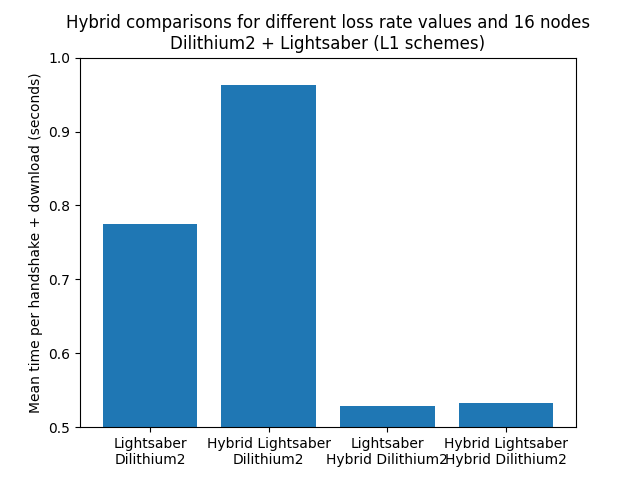
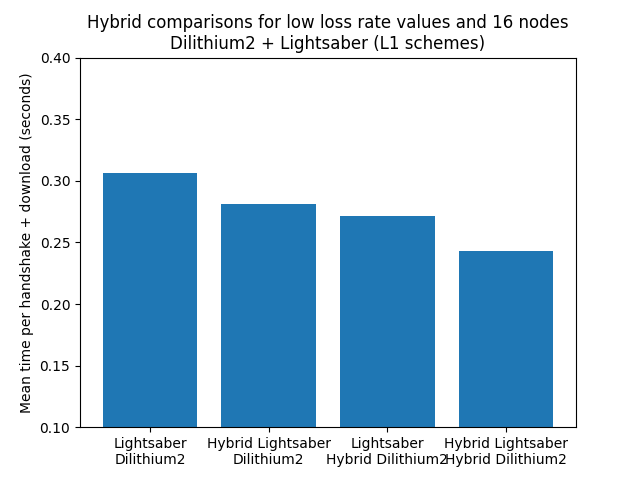
22/12 - Exploitation

diff --git a/computing_results.py b/computing_results.py
@@ -30,6 +30,49 @@ Format :
 "bytes_read_per_conn": "303"}
 """
 
+ciphertext_or_signature_sizes = {  # In bytes
+    "kyber512": 736,
+    "kyber768": 1088,
+    "kyber1024": 1568,
+    "ntru1": 699,
+    "ntru3": 930,
+    "ntru5": 1230,
+    "lightsaber": 736,
+    "saber": 1088,
+    "firesaber": 1472,
+    "dil2": 2044,
+    "dil3": 2701,
+    "dil4": 3366,
+    "falcon512": 690,
+    "falcon1024": 1330,
+    "picnic3l1": 14612,
+    "picnic3l3": 35028,
+    "picnic3l5": 61028,
+    "rainbowIa": 64,
+    "rainbowVc": 204
+}
+
+public_key_sizes = {  # In bytes
+    "kyber512": 800,
+    "kyber768": 1184,
+    "kyber1024": 1568,
+    "ntru1": 699,
+    "ntru3": 930,
+    "ntru5": 1230,
+    "lightsaber": 672,
+    "saber": 992,
+    "firesaber": 1312,
+    "dil2": 1184,
+    "dil3": 1472,
+    "dil4": 1760,
+    "falcon512": 897,
+    "falcon1024": 1793,
+    "picnic3l1": 35,
+    "picnic3l3": 49,
+    "picnic3l5": 65,
+    "rainbowIa": 148992,
+    "rainbowVc": 1705536
+}
 
 # Functions
 
@@ -87,6 +130,15 @@ def get_rtt_min_loss(data, nodes):
     return get_rtt(res), min_loss
 
 
+def get_rtt_max_loss(data, nodes):
+    max_loss = 0
+    res = {}
+    for exp in data[nodes]:
+        if exp["loss"] > max_loss:
+            res = exp
+            max_loss = exp["loss"]
+    return get_rtt(res), max_loss
+
 # Loss variations for L1
 
 
@@ -102,9 +154,9 @@ dil2_lightsaber = get_experiments(make_filename("dil2", "lightsaber", new=True))
 dil3_saber = get_experiments(make_filename("dil3", "saber", new=True))
 dil4_firesaber = get_experiments(make_filename("dil4", "firesaber", new=True))
 
-loss_graph("8", dil2_lightsaber, "Dilithium2 + Lightsaber (L1)")
-loss_graph("8", dil3_saber, "Dilithium3 + Saber (L3)")
-loss_graph("8", dil4_firesaber, "Dilithium4 + Firesaber (L5)")
+loss_graph("8", dil2_lightsaber, "Dilithium2 + Lightsaber (L1xL1)")
+loss_graph("8", dil3_saber, "Dilithium3 + Saber (L2xL3)")
+loss_graph("8", dil4_firesaber, "Dilithium4 + Firesaber (L3xL5)")
 
 plt.xlabel("Packet Loss percentage (%)")
 plt.ylabel("Mean time per handshake + download (seconds)")
@@ -186,16 +238,16 @@ def hybrid_graph(data_qq, data_hq, data_qh, data_hh, nodes, title, filename, kex
         f = get_rtt_min_loss
 
     x.append(kex + "\n" + sig)
-    y.append(f(data_qq, nodes))
+    y.append(f(data_qq, nodes)[0])
 
     x.append("Hybrid " + kex + "\n" + sig)
-    y.append(f(data_hq, nodes))
+    y.append(f(data_hq, nodes)[0])
 
     x.append(kex + "\n" + "Hybrid " + sig)
-    y.append(f(data_qh, nodes))
+    y.append(f(data_qh, nodes)[0])
 
     x.append("Hybrid " + kex + "\n" + "Hybrid " + sig)
-    y.append(f(data_hh, nodes))
+    y.append(f(data_hh, nodes)[0])
 
     plt.bar(x, y)
     plt.ylabel("Mean time per handshake + download (seconds)")
@@ -207,8 +259,8 @@ def hybrid_graph(data_qq, data_hq, data_qh, data_hh, nodes, title, filename, kex
 
 
 hybrid_graph(dil2_lightsaber, Hdil2_lightsaber, dil2_Hlightsaber, Hdil2_Hlightsaber, "16",
-             "Hybrid comparisons for different loss rate values and 16 nodes\nDilithium2 + Lightsaber (L1 schemes)",
-             "figures/HYBRID_dil2_lightsaber", "Lightsaber", "Dilithium2", all_same=True, bot=0.5, top=1)
+             "Hybrid comparisons for low loss rate values and 16 nodes\nDilithium2 + Lightsaber (L1 schemes)",
+             "figures/HYBRID_dil2_lightsaber", "Lightsaber", "Dilithium2", all_same=False, bot=0.1, top=0.4)
 
 rainIa_kyber512 = get_experiments(make_filename("rainbowIa", "kyber512", new=True))
 HrainIa_kyber512 = get_experiments(make_filename("rainbowIa", "kyber512", new=True, h_sig=True))
@@ -216,8 +268,8 @@ rainIa_Hkyber512 = get_experiments(make_filename("rainbowIa", "kyber512", new=Tr
 HrainIa_Hkyber512 = get_experiments(make_filename("rainbowIa", "kyber512", new=True, h_sig=True, h_kex=True))
 
 hybrid_graph(rainIa_kyber512, HrainIa_kyber512, rainIa_Hkyber512, HrainIa_Hkyber512, "8",
-             "Hybrid comparisons for different loss rate values and 8 nodes\nRainbowIa + Kyber512 (L1 schemes)",
-             "figures/HYBRID_rainbowIa_kyber512", "Kyber512", "RainbowIa", all_same=True, bot=1.1, top=1.5)
+             "Hybrid comparisons for low loss rate values and 8 nodes\nRainbowIa + Kyber512 (L1 schemes)",
+             "figures/HYBRID_rainbowIa_kyber512", "Kyber512", "RainbowIa", all_same=False, bot=1.1, top=1.5)
 
 rainVc_kyber1024 = get_experiments(make_filename("rainbowVc", "kyber1024", new=True))
 HrainVc_kyber1024 = get_experiments(make_filename("rainbowVc", "kyber1024", new=True, h_sig=True))
@@ -225,8 +277,8 @@ rainVc_Hkyber1024 = get_experiments(make_filename("rainbowVc", "kyber1024", new=
 HrainVc_Hkyber1024 = get_experiments(make_filename("rainbowVc", "kyber1024", new=True, h_sig=True, h_kex=True))
 
 hybrid_graph(rainVc_kyber1024, HrainVc_kyber1024, rainVc_Hkyber1024, HrainVc_Hkyber1024, "8",
-             "Hybrid comparisons for different loss rate values and 8 nodes\nRainbowVc + Kyber1024 (L1 schemes)",
-             "figures/HYBRID_rainbowVc_kyber1024", "Kyber1024", "RainbowVc", all_same=True, bot=13, top=17)
+             "Hybrid comparisons for low loss rate values and 8 nodes\nRainbowVc + Kyber1024 (L1 schemes)",
+             "figures/HYBRID_rainbowVc_kyber1024", "Kyber1024", "RainbowVc", all_same=False, bot=10, top=16)
 
 # Picnic Comparisons
 
@@ -252,4 +304,86 @@ plt.legend()
 plt.savefig("figures/LOSS_Picnic_all")
 plt.ylim(top=2)
 plt.savefig("figures/LOSS_Picnic_detail")
+plt.show()
+
+# LOW LOSS, CIPHERTEXT SIZE
+
+old_dil2_saber = get_experiments(make_filename("dil2", "saber", new=False))
+old_dil2_firesaber = get_experiments(make_filename("dil2", "firesaber", new=False))
+old_dil2_kyber512 = get_experiments(make_filename("dil2", "kyber512", new=False))
+old_dil2_ntru1 = get_experiments(make_filename("dil2", "ntru1", new=False))
+
+x, y = [], []
+for exp in [(old_dil2_lightsaber, "lightsaber"), (old_dil2_saber, "saber"), (old_dil2_firesaber, "firesaber"), (old_dil2_kyber512, "kyber512"), (old_dil2_ntru1, "ntru1")]:
+    res = get_mean_RTT(exp[0], "8")
+    plt.scatter(ciphertext_or_signature_sizes[exp[1]], res)
+    plt.annotate(exp[1], (ciphertext_or_signature_sizes[exp[1]], res))
+
+plt.plot(x, y)
+plt.xlabel("Ciphertext size in Bytes")
+plt.ylabel("Mean time per handshake + download (seconds)")
+plt.title("Completion time evoluting with ciphertext size for low loss rate, 8 nodes.")
+plt.grid()
+plt.savefig("figures/CIPHERTEXT_LOW_LOSS")
+plt.show()
+
+# LOW LOSS, SIGNATURE SIZE
+
+old_dil4_saber = get_experiments(make_filename("dil4", "saber", new=False))
+old_fal512_saber = get_experiments(make_filename("fal512", "saber", new=False))
+old_rainbowIa_saber = get_experiments(make_filename("rainbowIa", "saber", new=False))
+
+x, y = [], []
+for exp in [(old_dil2_saber, "dil2"), (old_dil4_saber, "dil4"), (old_fal512_saber, "falcon512"), (old_rainbowIa_saber, "rainbowIa")]:
+    res = get_mean_RTT(exp[0], "8")
+    plt.scatter(ciphertext_or_signature_sizes[exp[1]], res)
+    plt.annotate(exp[1], (ciphertext_or_signature_sizes[exp[1]], res))
+
+plt.plot(x, y)
+plt.xlabel("Signature size in Bytes")
+plt.ylabel("Mean time per handshake + download (seconds)")
+plt.title("Completion time evoluting with signature size for low loss rate, 8 nodes.")
+plt.grid()
+plt.savefig("figures/SIGNATURE_LOW_LOSS")
+plt.show()
+
+
+# HIGH LOSS, CIPHERTEXT SIZE
+
+dil2_kyber768 = get_experiments(make_filename("dil2", "kyber768", new=True))
+dil2_kyber1024 = get_experiments(make_filename("dil2", "kyber1024", new=True))
+dil3_saber = get_experiments(make_filename("dil3", "saber", new=True))
+
+x, y = [], []
+for exp in [(dil2_lightsaber, "lightsaber"), (dil2_kyber768, "kyber768"), (dil2_kyber1024, "kyber1024"), (dil3_saber, "saber")]:
+    res = get_mean_RTT(exp[0], "8")
+    plt.scatter(ciphertext_or_signature_sizes[exp[1]], res)
+    plt.annotate(exp[1], (ciphertext_or_signature_sizes[exp[1]], res))
+
+plt.plot(x, y)
+plt.xlabel("Ciphertext size in Bytes")
+plt.ylabel("Mean time per handshake + download (seconds)")
+plt.title("Completion time evoluting with ciphertext size for high loss rate, 8 nodes.")
+plt.grid()
+plt.savefig("figures/CIPHERTEXT_HIGH_LOSS")
+plt.show()
+
+# HIGH LOSS, CIPHERTEXT SIZE
+
+dil2_Hsaber = get_experiments(make_filename("dil2", "saber", h_kex=True, new=True))
+fal512_Hsaber = get_experiments(make_filename("fal512", "saber", h_kex=True, new=True))
+rainIa_Hsaber = get_experiments(make_filename("rainbowIa", "saber", h_kex=True, new=True))
+
+x, y = [], []
+for exp in [(dil2_Hsaber, "dil2"), (dil4_firesaber, "dil4"), (fal512_Hsaber, "falcon512"), (picnic1_saber, "picnic3l1"), (picnic3_saber, "picnic3l3"), (picnic5_saber, "picnic3l5"), (rainIa_Hsaber, "rainbowIa")]:
+    res = get_mean_RTT(exp[0], "8")
+    plt.scatter(ciphertext_or_signature_sizes[exp[1]], res)
+    plt.annotate(exp[1], (ciphertext_or_signature_sizes[exp[1]], res))
+
+plt.plot(x, y)
+plt.xlabel("Signature size in Bytes")
+plt.ylabel("Mean time per handshake + download (seconds)")
+plt.title("Completion time evoluting with signature size for high loss rate, 8 nodes.")
+plt.grid()
+plt.savefig("figures/SIGNATURE_HIGH_LOSS")
 plt.show()
